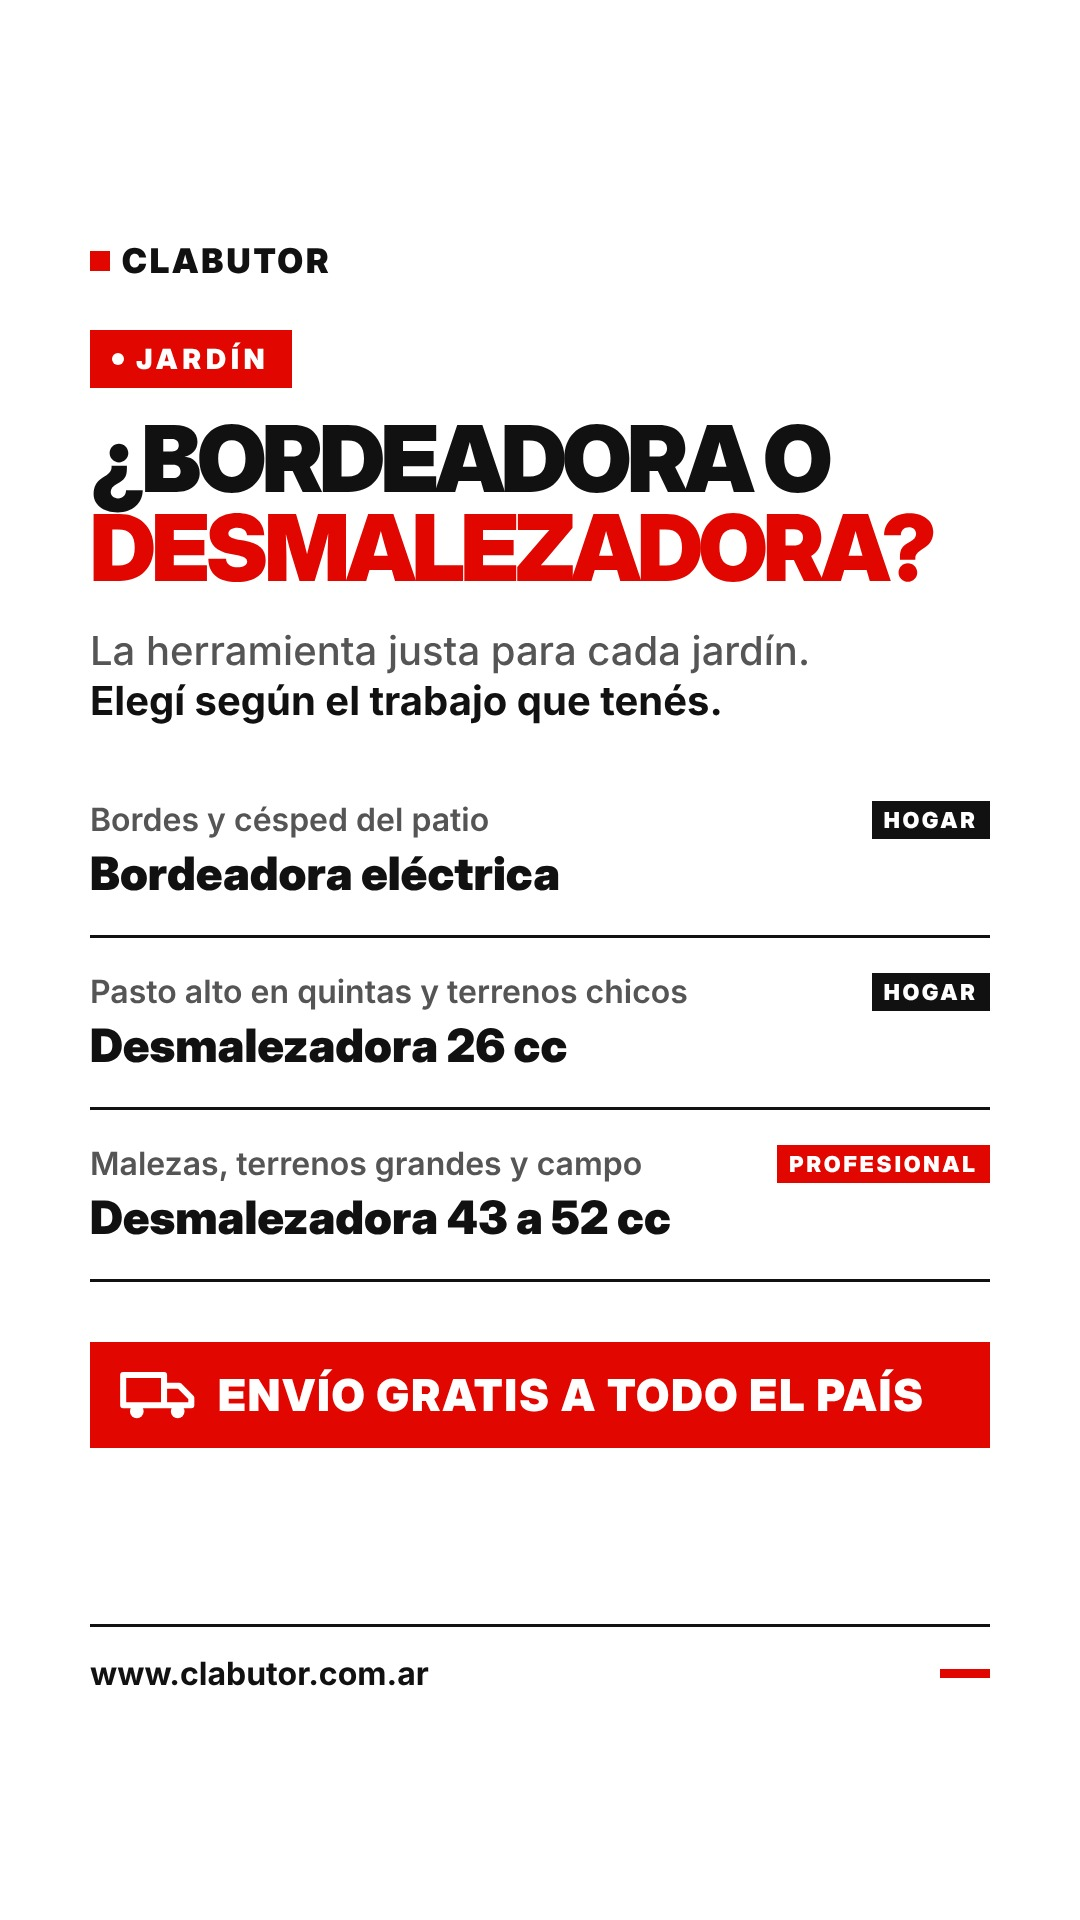
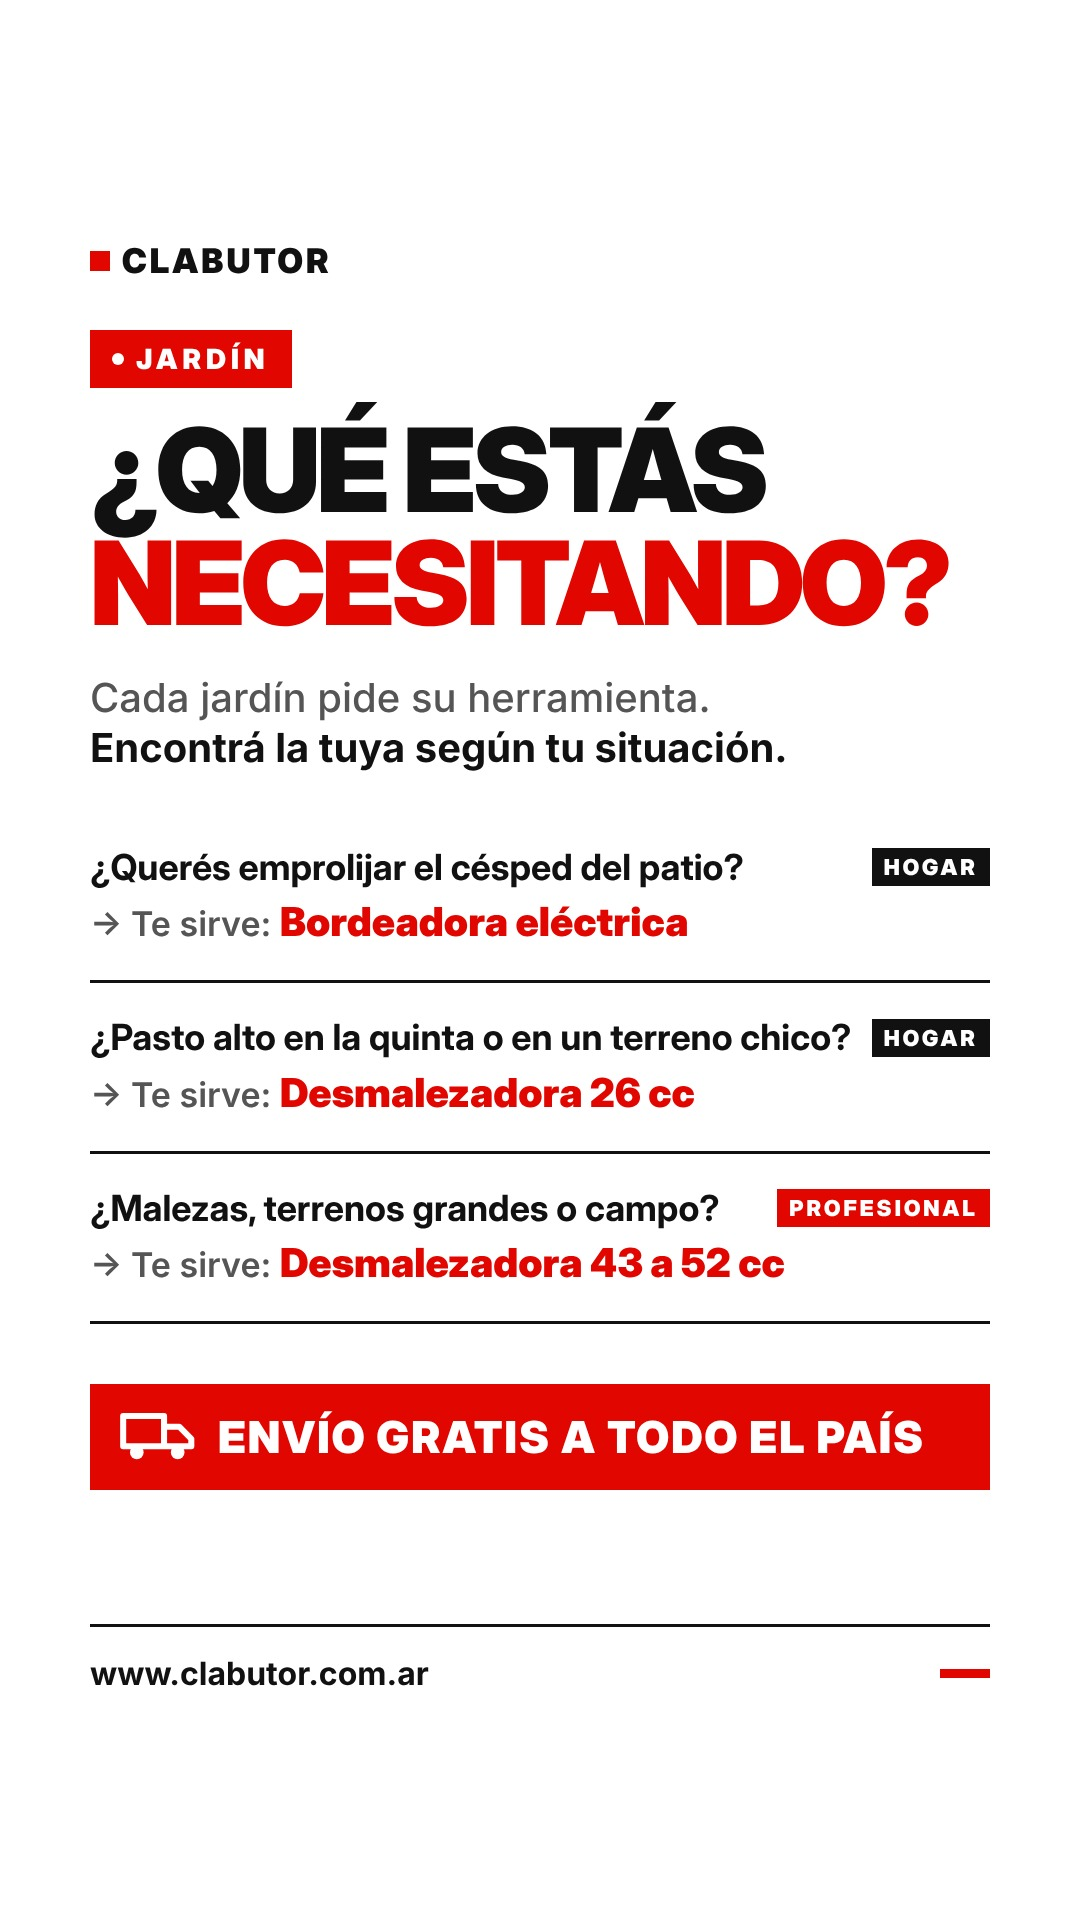
Historias desmalezadoras: portada en forma de preguntas por situación
Claude-Session: https://claude.ai/code/session_01XbJLpPx7CCs1ipZpL6GiAh

Changed region(s): [[0.0611, 0.1875, 0.9167, 0.7812], [0.7944, 0.4062, 0.9167, 0.4688]]

diff --git a/disenos/posteos/historia-desmalezadoras.py b/disenos/posteos/historia-desmalezadoras.py
@@ -33,9 +33,9 @@ EQUIPOS = [
 ]
 
 GUIA = [
-    ("Bordes y césped del patio", "Bordeadora eléctrica", "HOGAR"),
-    ("Pasto alto en quintas y terrenos chicos", "Desmalezadora 26 cc", "HOGAR"),
-    ("Malezas, terrenos grandes y campo", "Desmalezadora 43 a 52 cc", "PROFESIONAL"),
+    ("¿Querés emprolijar el césped del patio?", "Bordeadora eléctrica", "HOGAR"),
+    ("¿Pasto alto en la quinta o en un terreno chico?", "Desmalezadora 26 cc", "HOGAR"),
+    ("¿Malezas, terrenos grandes o campo?", "Desmalezadora 43 a 52 cc", "PROFESIONAL"),
 ]
 
 
@@ -48,14 +48,14 @@ def placas(g):
     filas = "".join(
         f'<div style="padding:34px 0;border-bottom:3px solid #111">'
         f'<div style="display:flex;justify-content:space-between;align-items:center;gap:16px">'
-        f'<span style="font-weight:600;font-size:32px;color:#555">{uso}</span>'
+        f'<span style="font-family:Titular;font-weight:700;font-size:36px;line-height:1.12">{uso}</span>'
         f'<span style="font-family:Titular;font-weight:900;font-size:22px;letter-spacing:3px;color:#fff;background:{"#111" if tag == "HOGAR" else ROJO};padding:6px 12px;white-space:nowrap">{tag}</span></div>'
-        f'<div style="font-family:Titular;font-weight:900;font-size:46px;margin-top:6px">{equipo}</div></div>'
+        f'<div style="font-weight:600;font-size:34px;color:#555;margin-top:10px">&rarr; Te sirve: <b style="font-family:Titular;font-weight:900;font-size:40px;color:{ROJO}">{equipo}</b></div></div>'
         for uso, equipo, tag in GUIA)
     info = f'''
 <div class="pildora"><i></i>JARDÍN</div>
-<h1 style="font-size:92px;margin-top:26px;white-space:nowrap">¿Bordeadora o<br><em>desmalezadora?</em></h1>
-<p class="bajada" style="font-size:40px">La herramienta justa para cada jardín.<br><b>Elegí según el trabajo que tenés.</b></p>
+<h1 style="font-size:116px;margin-top:26px">¿Qué estás<br><em>necesitando?</em></h1>
+<p class="bajada" style="font-size:40px">Cada jardín pide su herramienta.<br><b>Encontrá la tuya según tu situación.</b></p>
 <div style="margin-top:40px">{filas}</div>
 <div style="display:flex;align-items:center;gap:22px;background:{ROJO};color:#fff;padding:26px 30px;margin-top:60px">
   {camion(76)}<span style="font-family:Titular;font-weight:900;font-size:44px;letter-spacing:2px">ENVÍO GRATIS A TODO EL PAÍS</span>
